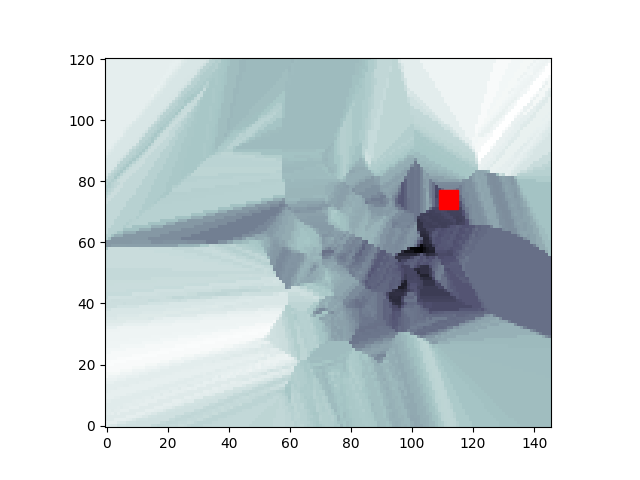
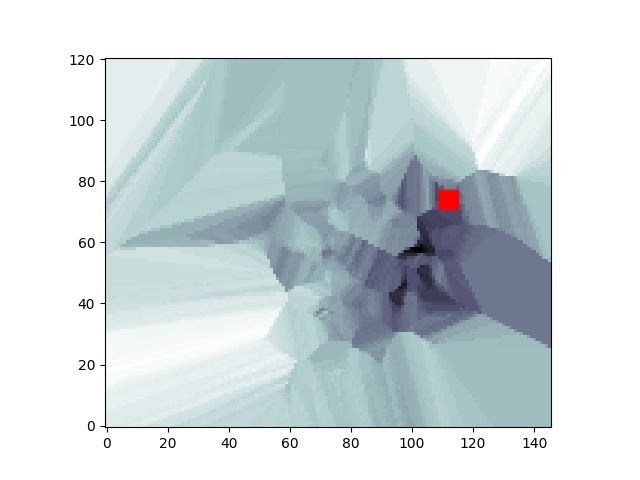
feat(scaler): adding scaler to input

diff --git a/src/scaler.py b/src/scaler.py
@@ -1,0 +1,26 @@
+import numpy as np
+from sklearn import base as skBase
+from sklearn import preprocessing
+import warnings
+warnings.filterwarnings("ignore", category=DeprecationWarning)
+
+class Scaler(skBase.BaseEstimator):
+
+    def __init__(self, model):
+        self.model = model    
+        self.x_scaler = preprocessing.RobustScaler()
+        self.y_scaler = preprocessing.RobustScaler()
+
+    def fit(self, x, y):
+        x_scaled = y_scaled = []
+
+        x_scaled = self.x_scaler.fit_transform(np.array(x))
+        y_scaled = self.y_scaler.fit_transform(y).ravel()
+
+        self.model = self.model.fit(x_scaled, y_scaled)
+
+    def predict(self, x):
+        x_scaled = self.x_scaler.transform(x)
+        prediction = self.model.predict(x_scaled)
+        
+        return self.y_scaler.inverse_transform(prediction)

diff --git a/src/models.py b/src/models.py
@@ -1,5 +1,6 @@
 from copy import deepcopy
 import numpy as np
+import scaler
 
 def train(X, Y, model):
     '''Trains a model for each column in the Y dataset
@@ -10,7 +11,7 @@ def train(X, Y, model):
         print("Training model for BTS%d" % (i+1))
         x_predict = X[:, :]
         y_predict = Y[:, i:(i+1)]
-        trained_model = deepcopy(model)
+        trained_model = scaler.Scaler(deepcopy(model))
         trained_model.fit(x_predict, y_predict)
         models.append(trained_model)
 
